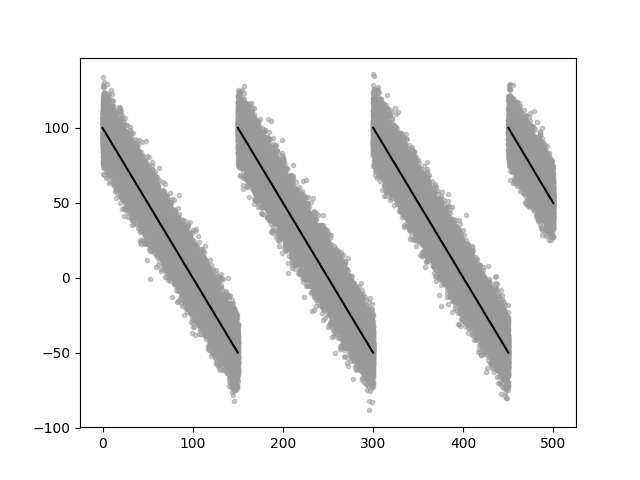
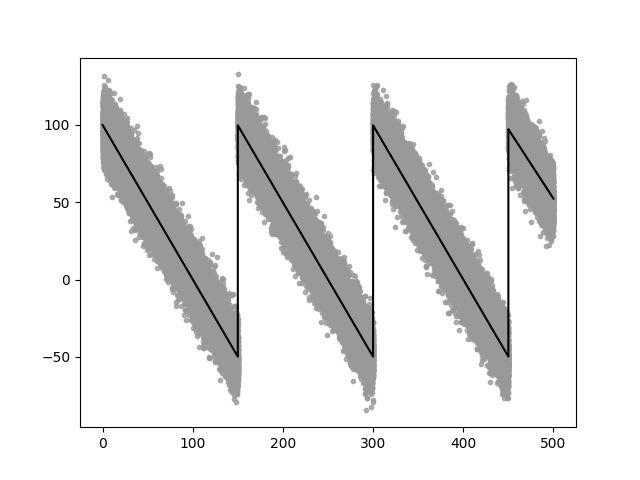
init

diff --git a/segmentreg/base.py b/segmentreg/base.py
@@ -1,14 +1,5 @@
 import numpy as np
-FLOAT_PRECISION = 1e-7
-
-
-def fit_linear(y, x, find_intercept=True):
-    cov = np.cov(y, x)
-    b = cov[1, 0] / cov[1, 1]
-    if find_intercept:
-        return b, y.mean() - b * x.mean()
-    else:
-        return b
+VARIANCE_PRECISION = 1e-7
 
 
 class SegmentedRegression:
@@ -27,18 +18,21 @@ class SegmentedRegression:
         self._y2 = None
 
         # result
-        self.splits_ = None
+        self.segments_ = None
 
         # model parameters
         self.eps = eps
         self.window = window
 
-    def fit(self, x, y):
+    def fit(self, x, y, is_sorted=False):
         assert len(x.shape) == 1, 'input data x expects to be 1d array'
         assert len(y.shape) == 1, 'input data y expects to be 1d array'
         assert x.shape[0] == y.shape[0], 'input data must have same length'
 
-        # TODO sort by x
+        if not is_sorted:
+            idx = np.argsort(x)
+            x, y = x[idx], y[idx]
+
         self.x = x
         self.y = y
 
@@ -52,24 +46,39 @@ class SegmentedRegression:
         if self.eps is None:
             self.eps = 3 * self._estimate_var(x, y)
 
-        self.splits_ = self._find_splits(0, x.shape[0], self.window, self.eps)
+        self.segments_ = self._find_segments(0, x.shape[0], self.window, self.eps)
 
-    def _find_splits(self, n1, n2, window, eps):
-        # TODO save linear regression parameters on each interval
+    def _find_segments(self, n1, n2, window, eps):
         n, v, v_r = self._get_variance_slice(n1, n2)
 
         if (n - n1 <= window) or (n + window >= n2):
             return []
         else:
             if v < eps and v_r < eps:
-                return [n, ]
+                return [self._get_segment_info(n1, n), self._get_segment_info(n, n2)]
             elif v >= eps and v_r < eps:
-                return self._find_splits(n1, n - window, window, eps) + [n, ]
+                return self._find_segments(n1, n - window, window, eps) + [self._get_segment_info(n, n2), ]
             elif v < eps and v_r >= eps:
-                return [n, ] + self._find_splits(n + window, n2, window, eps)
+                return [self._get_segment_info(n1, n), ] + self._find_segments(n + window, n2, window, eps)
             else:
-                return self._find_splits(n1, n - window, window, eps) + [n, ] + \
-                       self._find_splits(n + window, n2, window, eps)
+                return self._find_segments(n1, n - window, window, eps) + \
+                       self._find_segments(n + window, n2, window, eps)
+
+    def _get_segment_info(self, n1, n2):
+        x, y, xy, x2, n = self._x, self._y, self._xy, self._x2, self._n
+        n2 = n2 - 1
+        n_ = n[n2] - n[n1] + 1
+        x_m = (x[n2] - x[n1]) / n_
+        y_m = (y[n2] - y[n1]) / n_
+        xy_m = (xy[n2] - xy[n1]) / n_
+        cov = xy_m - x_m * y_m
+
+        x2_m = (x2[n2] - x2[n1]) / n_
+        var_x = x2_m - x_m * x_m + VARIANCE_PRECISION
+
+        k = cov / var_x
+        b = y_m - k * x_m
+        return self.x[n1], k, b
 
     def _get_variance_slice(self, n1, n2):
         # TODO reduce number of divisions by n
@@ -82,8 +91,9 @@ class SegmentedRegression:
         cov = xy_m - x_m * y_m
 
         x2_m = (x2[n1: n2] - x2[n1]) / n_
-        # add FLOAT_PRECISION to avoid division by zero
-        var_x = x2_m - x_m * x_m + FLOAT_PRECISION
+        # add VARIANCE_PRECISION to avoid division by zero
+        var_x = x2_m - x_m * x_m
+        var_x[var_x == 0] = np.nan
 
         y2_m = (y2[n1: n2] - y2[n1]) / n_
         var_y = y2_m - y_m * y_m
@@ -98,7 +108,8 @@ class SegmentedRegression:
         cov = xy_m - x_m * y_m
 
         x2_m = (x2[n2] - x2[n1: n2]) / n_
-        var_x = x2_m - x_m * x_m + FLOAT_PRECISION
+        var_x = x2_m - x_m * x_m
+        var_x[var_x == 0] = np.nan
 
         y2_m = (y2[n2] - y2[n1: n2]) / n_
         var_y = y2_m - y_m * y_m
@@ -113,14 +124,16 @@ class SegmentedRegression:
         cov = xy_m - x_m * y_m
 
         x2_m = x2[n2] / n_
-        var_x = x2_m - x_m * x_m + FLOAT_PRECISION
+        var_x = x2_m - x_m * x_m
+        if var_x == 0:
+            var_x = np.nan
 
         y2_m = y2[n2] / n_
         var_y = y2_m - y_m * y_m
 
         v_r[0] = var_y - cov * cov / var_x
 
-        n_relative = np.argmin(v + v_r)
+        n_relative = np.nanargmin(v + v_r)
         return n1 + n_relative, v[n_relative], v_r[n_relative]
 
     @staticmethod
@@ -137,15 +150,20 @@ class SegmentedRegression:
             for i1, i2 in zip(range(0, len_x, n), range(n, len_x + n, n))
         ]
 
-        return max(np.median(var), 1e-3)
-
-    @property
-    def lines(self):
-        return [
-            fit_linear(self.y[x1:x2], self.x[x1:x2])
-            for x1, x2 in zip([0, ] + self.splits_, self.splits_ + [self.y.shape[0]])
-        ]
+        return np.median(var)
 
     def predict(self, x):
-        # TODO
-        pass
+        segments = self.segments_
+        if len(segments) == 1:
+            _, k, b = segments[0]
+            return k * x + b
+        else:
+            condlist = [x < segments[1][0], ] + [
+                x >= segment[0]
+                for segment in segments[1:]
+            ]
+            funclist = [
+                lambda x, k=k, b=b: k*x + b
+                for _, k, b in segments
+            ]
+            return np.piecewise(x, condlist, funclist)

diff --git a/examples/sin.py b/examples/sin.py
@@ -4,20 +4,15 @@ from segmentreg import SegmentedRegression
 import matplotlib.pyplot as plt
 
 if __name__ == "__main__":
-    x = np.linspace(0., 500., 100000)
-    y = 100. - 1.*x
-    y[30000:] += 150
-    y[60000:] += 150
-    y[90000:] += 150
-    y += np.random.normal(scale=10, size=y.shape)
+    x = np.linspace(0., np.pi, 100000)
+    y = np.sin(x)
 
     t = time.time()
-    m = SegmentedRegression()
+    m = SegmentedRegression(eps=1e-3)
     m.fit(x, y)
     t = time.time() - t
     print('Splits: {}, time: {:.1f}ms'.format(len(m.segments_), t * 1000))
 
-    plt.plot(x, y, '.', alpha=.5, color='#999999')
     plt.plot(x, y, '.', alpha=.5, color='#999999')
     y_ = m.predict(x)
     plt.plot(x, y_, color='k')

diff --git a/README.md b/README.md
@@ -1,10 +1,10 @@
 # segmented-regression
 Discontinuous segmented linear regression
 
-Model finds split points by greedy minimization of variance reduction. Linear trend is eliminated before variance is calculated.
-Model if fast and require only `numpy`.
+Model finds split points by greedy minimization of total variance. Linear trend is eliminated before variance is calculated.
+Model is fast and require only `numpy`.
 
-# Example
+# Examples
 ```python
 x = np.linspace(0., 500., 100000)
 y = 100. - 1.*x
@@ -15,5 +15,20 @@ y += np.random.normal(scale=10, size=y.shape)
 
 m = SegmentedRegression()
 m.fit(x, y)
+y_ = m.predict(x)
+plt.plot(x, y, '.', alpha=.5, color='#999999')
+plt.plot(x, y_, color='k')
 ```
 ![alt text](/img/simple_saw.png "Simple saw example")
+
+```python
+x = np.linspace(0., np.pi, 100000)
+y = np.sin(x)
+
+m = SegmentedRegression(eps=1e-3)
+m.fit(x, y)
+y_ = m.predict(x)
+plt.plot(x, y, '.', alpha=.5, color='#999999')
+plt.plot(x, y_, color='k')
+```
+![alt text](/img/sin.png "Sin example")
